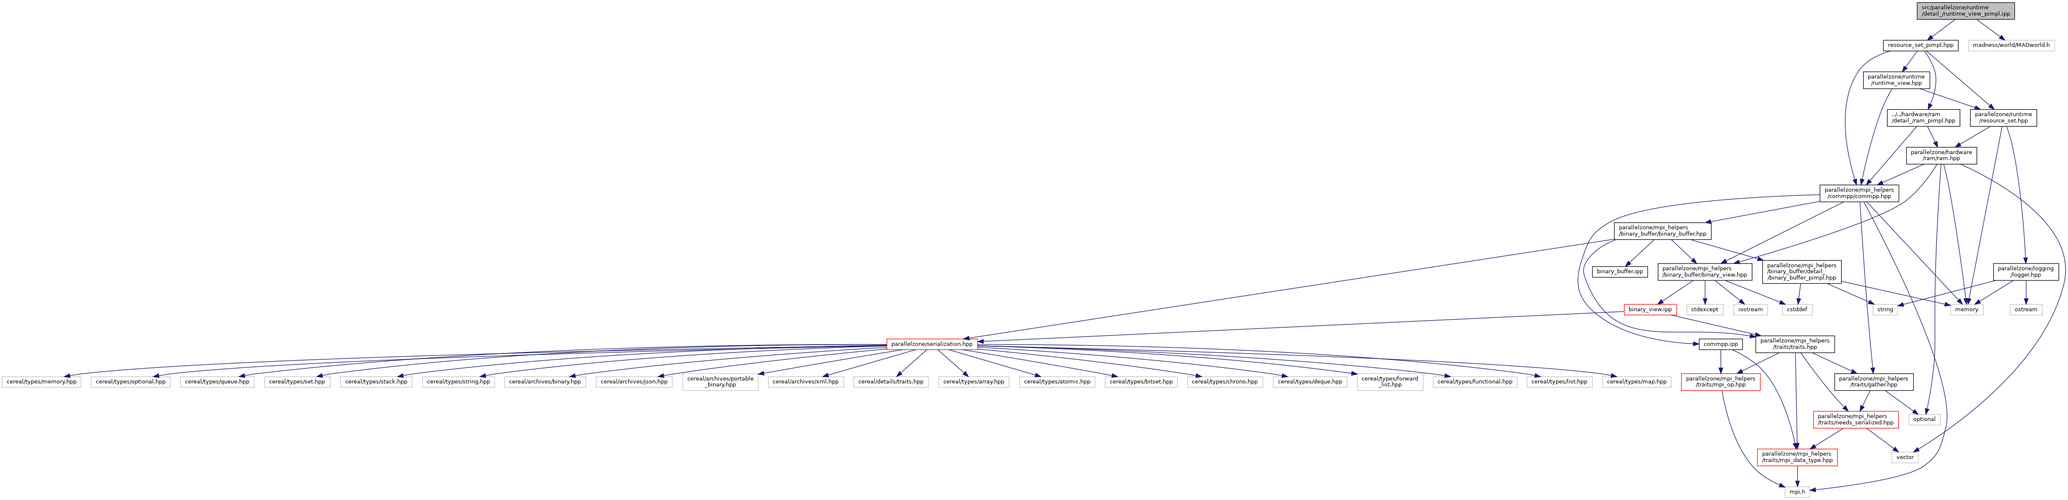
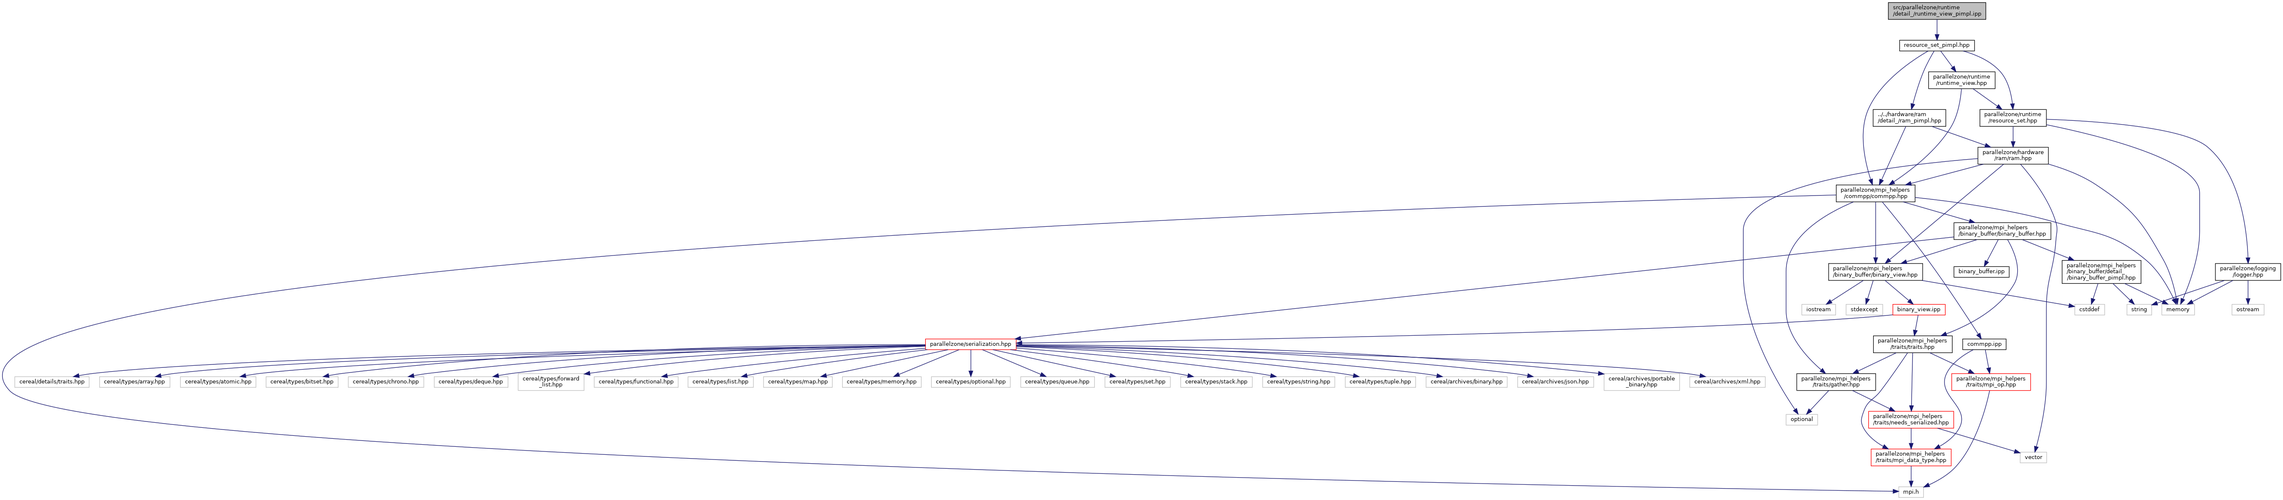
deploy: f9c04cf4defc1af3403317af634ea81ba5e0e5b0

diff --git a/parallelzone_cxx_api/runtime__view_8hpp_source.html b/parallelzone_cxx_api/runtime__view_8hpp_source.html
@@ -235,34 +235,34 @@ $(function() {
 <div class="ttc" id="aclassparallelzone_1_1runtime_1_1ResourceSet_html_a8678b1858f119f4d635742dd706e4b86"><div class="ttname"><a href="classparallelzone_1_1runtime_1_1ResourceSet.html#a8678b1858f119f4d635742dd706e4b86">parallelzone::runtime::ResourceSet::const_ram_reference</a></div><div class="ttdeci">const ram_type &amp; const_ram_reference</div><div class="ttdoc">Type of a read-only reference to the RAM.</div><div class="ttdef"><b>Definition:</b> resource_set.hpp:64</div></div>
 <div class="ttc" id="aclassparallelzone_1_1runtime_1_1ResourceSet_html_a8c2fc0065fd049ca6ed3fb86ba55ba99"><div class="ttname"><a href="classparallelzone_1_1runtime_1_1ResourceSet.html#a8c2fc0065fd049ca6ed3fb86ba55ba99">parallelzone::runtime::ResourceSet::ram_type</a></div><div class="ttdeci">hardware::RAM ram_type</div><div class="ttdoc">Type of the object representing RAM.</div><div class="ttdef"><b>Definition:</b> resource_set.hpp:61</div></div>
 <div class="ttc" id="aclassparallelzone_1_1runtime_1_1RuntimeView_html"><div class="ttname"><a href="classparallelzone_1_1runtime_1_1RuntimeView.html">parallelzone::runtime::RuntimeView</a></div><div class="ttdoc">A view of the execution environment.</div><div class="ttdef"><b>Definition:</b> runtime_view.hpp:52</div></div>
-<div class="ttc" id="aclassparallelzone_1_1runtime_1_1RuntimeView_html_a00e3a5845d983dd15b6acc2337447bdc"><div class="ttname"><a href="classparallelzone_1_1runtime_1_1RuntimeView.html#a00e3a5845d983dd15b6acc2337447bdc">parallelzone::runtime::RuntimeView::operator==</a></div><div class="ttdeci">bool operator==(const RuntimeView &amp;rhs) const</div><div class="ttdoc">Determines if rhs is value equal to *this.</div><div class="ttdef"><b>Definition:</b> runtime_view.cpp:130</div></div>
+<div class="ttc" id="aclassparallelzone_1_1runtime_1_1RuntimeView_html_a00e3a5845d983dd15b6acc2337447bdc"><div class="ttname"><a href="classparallelzone_1_1runtime_1_1RuntimeView.html#a00e3a5845d983dd15b6acc2337447bdc">parallelzone::runtime::RuntimeView::operator==</a></div><div class="ttdeci">bool operator==(const RuntimeView &amp;rhs) const</div><div class="ttdoc">Determines if rhs is value equal to *this.</div><div class="ttdef"><b>Definition:</b> runtime_view.cpp:127</div></div>
 <div class="ttc" id="aclassparallelzone_1_1runtime_1_1RuntimeView_html_a122358c232b4a806532fc865700dc79c"><div class="ttname"><a href="classparallelzone_1_1runtime_1_1RuntimeView.html#a122358c232b4a806532fc865700dc79c">parallelzone::runtime::RuntimeView::const_iterator</a></div><div class="ttdeci">int const_iterator</div><div class="ttdoc">Type of an interator over a range of resource_set_type instances.</div><div class="ttdef"><b>Definition:</b> runtime_view.hpp:83</div></div>
 <div class="ttc" id="aclassparallelzone_1_1runtime_1_1RuntimeView_html_a1c67b36432515884f4629431aa5248a4"><div class="ttname"><a href="classparallelzone_1_1runtime_1_1RuntimeView.html#a1c67b36432515884f4629431aa5248a4">parallelzone::runtime::RuntimeView::gather</a></div><div class="ttdeci">auto gather(T &amp;&amp;input) const</div><div class="ttdoc">Performs an all gather on the provided data.</div><div class="ttdef"><b>Definition:</b> runtime_view.hpp:422</div></div>
-<div class="ttc" id="aclassparallelzone_1_1runtime_1_1RuntimeView_html_a22c66ab5ce0bfef7a80ad4c37ea1017f"><div class="ttname"><a href="classparallelzone_1_1runtime_1_1RuntimeView.html#a22c66ab5ce0bfef7a80ad4c37ea1017f">parallelzone::runtime::RuntimeView::logger</a></div><div class="ttdeci">logger_reference logger() const</div><div class="ttdoc">Returns the program-wide logger.</div><div class="ttdef"><b>Definition:</b> runtime_view.cpp:118</div></div>
-<div class="ttc" id="aclassparallelzone_1_1runtime_1_1RuntimeView_html_a22e9b62ef7918c0d35d651fa0edf2e2a"><div class="ttname"><a href="classparallelzone_1_1runtime_1_1RuntimeView.html#a22e9b62ef7918c0d35d651fa0edf2e2a">parallelzone::runtime::RuntimeView::my_resource_set</a></div><div class="ttdeci">const_resource_set_reference my_resource_set() const</div><div class="ttdoc">Finds the resource set for the current process.</div><div class="ttdef"><b>Definition:</b> runtime_view.cpp:106</div></div>
+<div class="ttc" id="aclassparallelzone_1_1runtime_1_1RuntimeView_html_a22c66ab5ce0bfef7a80ad4c37ea1017f"><div class="ttname"><a href="classparallelzone_1_1runtime_1_1RuntimeView.html#a22c66ab5ce0bfef7a80ad4c37ea1017f">parallelzone::runtime::RuntimeView::logger</a></div><div class="ttdeci">logger_reference logger() const</div><div class="ttdoc">Returns the program-wide logger.</div><div class="ttdef"><b>Definition:</b> runtime_view.cpp:115</div></div>
+<div class="ttc" id="aclassparallelzone_1_1runtime_1_1RuntimeView_html_a22e9b62ef7918c0d35d651fa0edf2e2a"><div class="ttname"><a href="classparallelzone_1_1runtime_1_1RuntimeView.html#a22e9b62ef7918c0d35d651fa0edf2e2a">parallelzone::runtime::RuntimeView::my_resource_set</a></div><div class="ttdeci">const_resource_set_reference my_resource_set() const</div><div class="ttdoc">Finds the resource set for the current process.</div><div class="ttdef"><b>Definition:</b> runtime_view.cpp:103</div></div>
 <div class="ttc" id="aclassparallelzone_1_1runtime_1_1RuntimeView_html_a2f6116eb45714fe8da8134abcb606f82"><div class="ttname"><a href="classparallelzone_1_1runtime_1_1RuntimeView.html#a2f6116eb45714fe8da8134abcb606f82">parallelzone::runtime::RuntimeView::size_type</a></div><div class="ttdeci">std::size_t size_type</div><div class="ttdoc">Unsigned integral type used for counting, offsets, and indexing.</div><div class="ttdef"><b>Definition:</b> runtime_view.hpp:55</div></div>
 <div class="ttc" id="aclassparallelzone_1_1runtime_1_1RuntimeView_html_a3cb144e71e9449945ef587c2f5321663"><div class="ttname"><a href="classparallelzone_1_1runtime_1_1RuntimeView.html#a3cb144e71e9449945ef587c2f5321663">parallelzone::runtime::RuntimeView::gatherv</a></div><div class="ttdeci">auto gatherv(T &amp;&amp;input) const</div><div class="ttdoc">Performs an all gatherv on the provided data.</div><div class="ttdef"><b>Definition:</b> runtime_view.hpp:443</div></div>
 <div class="ttc" id="aclassparallelzone_1_1runtime_1_1RuntimeView_html_a3d1337ee4122818c8043777840da2b13"><div class="ttname"><a href="classparallelzone_1_1runtime_1_1RuntimeView.html#a3d1337ee4122818c8043777840da2b13">parallelzone::runtime::RuntimeView::const_range</a></div><div class="ttdeci">std::pair&lt; const_iterator, const_iterator &gt; const_range</div><div class="ttdoc">Pair of iterators to a read-only range of resource_set_type.</div><div class="ttdef"><b>Definition:</b> runtime_view.hpp:86</div></div>
 <div class="ttc" id="aclassparallelzone_1_1runtime_1_1RuntimeView_html_a465e869cbe8eebaf084c6df8636c9889"><div class="ttname"><a href="classparallelzone_1_1runtime_1_1RuntimeView.html#a465e869cbe8eebaf084c6df8636c9889">parallelzone::runtime::RuntimeView::argc_type</a></div><div class="ttdeci">int argc_type</div><div class="ttdoc">Type used to pass the program's argument count (i.e., &quot;argc&quot;)</div><div class="ttdef"><b>Definition:</b> runtime_view.hpp:61</div></div>
 <div class="ttc" id="aclassparallelzone_1_1runtime_1_1RuntimeView_html_a4d655291c38619f63c1c4e37ff3386ab"><div class="ttname"><a href="classparallelzone_1_1runtime_1_1RuntimeView.html#a4d655291c38619f63c1c4e37ff3386ab">parallelzone::runtime::RuntimeView::operator=</a></div><div class="ttdeci">RuntimeView &amp; operator=(RuntimeView &amp;&amp;rhs) noexcept</div><div class="ttdoc">Overwrites the state in *this with the state in rhs.</div></div>
 <div class="ttc" id="aclassparallelzone_1_1runtime_1_1RuntimeView_html_a5a27a5b66cbc399fce7b23fa67d8201e"><div class="ttname"><a href="classparallelzone_1_1runtime_1_1RuntimeView.html#a5a27a5b66cbc399fce7b23fa67d8201e">parallelzone::runtime::RuntimeView::RuntimeView</a></div><div class="ttdeci">RuntimeView(RuntimeView &amp;&amp;other) noexcept</div><div class="ttdoc">Transfers ownership of state in other to *this.</div></div>
-<div class="ttc" id="aclassparallelzone_1_1runtime_1_1RuntimeView_html_a644d2d0db4e49577d34ac3478f3a8a4a"><div class="ttname"><a href="classparallelzone_1_1runtime_1_1RuntimeView.html#a644d2d0db4e49577d34ac3478f3a8a4a">parallelzone::runtime::RuntimeView::size</a></div><div class="ttdeci">size_type size() const noexcept</div><div class="ttdoc">The number of resource sets in this instance.</div><div class="ttdef"><b>Definition:</b> runtime_view.cpp:86</div></div>
-<div class="ttc" id="aclassparallelzone_1_1runtime_1_1RuntimeView_html_a68de2e5f59cae07a9e7720586f9e87fc"><div class="ttname"><a href="classparallelzone_1_1runtime_1_1RuntimeView.html#a68de2e5f59cae07a9e7720586f9e87fc">parallelzone::runtime::RuntimeView::mpi_comm</a></div><div class="ttdeci">mpi_comm_type mpi_comm() const noexcept</div><div class="ttdoc">Returns the MPI communicator powering *this.</div><div class="ttdef"><b>Definition:</b> runtime_view.cpp:81</div></div>
+<div class="ttc" id="aclassparallelzone_1_1runtime_1_1RuntimeView_html_a644d2d0db4e49577d34ac3478f3a8a4a"><div class="ttname"><a href="classparallelzone_1_1runtime_1_1RuntimeView.html#a644d2d0db4e49577d34ac3478f3a8a4a">parallelzone::runtime::RuntimeView::size</a></div><div class="ttdeci">size_type size() const noexcept</div><div class="ttdoc">The number of resource sets in this instance.</div><div class="ttdef"><b>Definition:</b> runtime_view.cpp:83</div></div>
+<div class="ttc" id="aclassparallelzone_1_1runtime_1_1RuntimeView_html_a68de2e5f59cae07a9e7720586f9e87fc"><div class="ttname"><a href="classparallelzone_1_1runtime_1_1RuntimeView.html#a68de2e5f59cae07a9e7720586f9e87fc">parallelzone::runtime::RuntimeView::mpi_comm</a></div><div class="ttdeci">mpi_comm_type mpi_comm() const noexcept</div><div class="ttdoc">Returns the MPI communicator powering *this.</div><div class="ttdef"><b>Definition:</b> runtime_view.cpp:78</div></div>
 <div class="ttc" id="aclassparallelzone_1_1runtime_1_1RuntimeView_html_a69d490c31d18c01821c69f5d60c6dd37"><div class="ttname"><a href="classparallelzone_1_1runtime_1_1RuntimeView.html#a69d490c31d18c01821c69f5d60c6dd37">parallelzone::runtime::RuntimeView::mpi_comm_type</a></div><div class="ttdeci">MPI_Comm mpi_comm_type</div><div class="ttdoc">Type Runtime uses for handles to MPI communicators.</div><div class="ttdef"><b>Definition:</b> runtime_view.hpp:58</div></div>
 <div class="ttc" id="aclassparallelzone_1_1runtime_1_1RuntimeView_html_a77b614e37303449ecc2315858db2aed4"><div class="ttname"><a href="classparallelzone_1_1runtime_1_1RuntimeView.html#a77b614e37303449ecc2315858db2aed4">parallelzone::runtime::RuntimeView::RuntimeView</a></div><div class="ttdeci">RuntimeView(const RuntimeView &amp;other) noexcept</div><div class="ttdoc">Make a new RuntimeView which aliases the same resources as *this.</div></div>
-<div class="ttc" id="aclassparallelzone_1_1runtime_1_1RuntimeView_html_a7d21c3d45f8812fb17bbd559d80190cb"><div class="ttname"><a href="classparallelzone_1_1runtime_1_1RuntimeView.html#a7d21c3d45f8812fb17bbd559d80190cb">parallelzone::runtime::RuntimeView::RuntimeView</a></div><div class="ttdeci">RuntimeView()</div><div class="ttdoc">Creates a RuntimeView which wraps MPI_COMM_WORLD.</div><div class="ttdef"><b>Definition:</b> runtime_view.cpp:54</div></div>
+<div class="ttc" id="aclassparallelzone_1_1runtime_1_1RuntimeView_html_a7d21c3d45f8812fb17bbd559d80190cb"><div class="ttname"><a href="classparallelzone_1_1runtime_1_1RuntimeView.html#a7d21c3d45f8812fb17bbd559d80190cb">parallelzone::runtime::RuntimeView::RuntimeView</a></div><div class="ttdeci">RuntimeView()</div><div class="ttdoc">Creates a RuntimeView which wraps MPI_COMM_WORLD.</div><div class="ttdef"><b>Definition:</b> runtime_view.cpp:51</div></div>
 <div class="ttc" id="aclassparallelzone_1_1runtime_1_1RuntimeView_html_a916bb22d3fb79b17881667ab839a4cf4"><div class="ttname"><a href="classparallelzone_1_1runtime_1_1RuntimeView.html#a916bb22d3fb79b17881667ab839a4cf4">parallelzone::runtime::RuntimeView::pimpl_type</a></div><div class="ttdeci">detail_::RuntimeViewPIMPL pimpl_type</div><div class="ttdoc">Type of the class managing the state of this class.</div><div class="ttdef"><b>Definition:</b> runtime_view.hpp:95</div></div>
 <div class="ttc" id="aclassparallelzone_1_1runtime_1_1RuntimeView_html_aa58421c3d05daabe728979250be6cd1b"><div class="ttname"><a href="classparallelzone_1_1runtime_1_1RuntimeView.html#aa58421c3d05daabe728979250be6cd1b">parallelzone::runtime::RuntimeView::operator=</a></div><div class="ttdeci">RuntimeView &amp; operator=(const RuntimeView &amp;rhs) noexcept</div><div class="ttdoc">Makes *this alias the same resources as rhs.</div></div>
 <div class="ttc" id="aclassparallelzone_1_1runtime_1_1RuntimeView_html_aab1663be4841dae1432f2ed351a76eaf"><div class="ttname"><a href="classparallelzone_1_1runtime_1_1RuntimeView.html#aab1663be4841dae1432f2ed351a76eaf">parallelzone::runtime::RuntimeView::operator!=</a></div><div class="ttdeci">bool operator!=(const RuntimeView &amp;lhs, const RuntimeView &amp;rhs)</div><div class="ttdoc">Determines if two RuntimeView instances are different.</div><div class="ttdef"><b>Definition:</b> runtime_view.hpp:578</div></div>
 <div class="ttc" id="aclassparallelzone_1_1runtime_1_1RuntimeView_html_ab5fbf0b9041b77a7ccc74182933a4ee2"><div class="ttname"><a href="classparallelzone_1_1runtime_1_1RuntimeView.html#ab5fbf0b9041b77a7ccc74182933a4ee2">parallelzone::runtime::RuntimeView::pimpl_pointer</a></div><div class="ttdeci">std::shared_ptr&lt; pimpl_type &gt; pimpl_pointer</div><div class="ttdoc">Type of a pointer to the PIMPL.</div><div class="ttdef"><b>Definition:</b> runtime_view.hpp:98</div></div>
-<div class="ttc" id="aclassparallelzone_1_1runtime_1_1RuntimeView_html_acba26258319b6a20d081b78a94519de0"><div class="ttname"><a href="classparallelzone_1_1runtime_1_1RuntimeView.html#acba26258319b6a20d081b78a94519de0">parallelzone::runtime::RuntimeView::count</a></div><div class="ttdeci">size_type count(const_ram_reference ram) const</div><div class="ttdoc">Determines the number of ResourceSets a specific RAM instance belongs to.</div><div class="ttdef"><b>Definition:</b> runtime_view.cpp:110</div></div>
-<div class="ttc" id="aclassparallelzone_1_1runtime_1_1RuntimeView_html_acd2c5feb354c9bdc7d85da2a9e9a4da5"><div class="ttname"><a href="classparallelzone_1_1runtime_1_1RuntimeView.html#acd2c5feb354c9bdc7d85da2a9e9a4da5">parallelzone::runtime::RuntimeView::at</a></div><div class="ttdeci">const_resource_set_reference at(size_type i) const</div><div class="ttdoc">Returns the i-th resource set in a read-only state.</div><div class="ttdef"><b>Definition:</b> runtime_view.cpp:96</div></div>
-<div class="ttc" id="aclassparallelzone_1_1runtime_1_1RuntimeView_html_ad0dbb7d6fcd1f62b174b7b4887e61ba0"><div class="ttname"><a href="classparallelzone_1_1runtime_1_1RuntimeView.html#ad0dbb7d6fcd1f62b174b7b4887e61ba0">parallelzone::runtime::RuntimeView::did_i_start_mpi</a></div><div class="ttdeci">bool did_i_start_mpi() const noexcept</div><div class="ttdoc">Used to determine if this RuntimeView aliases the resources that started mpi.</div><div class="ttdef"><b>Definition:</b> runtime_view.cpp:92</div></div>
-<div class="ttc" id="aclassparallelzone_1_1runtime_1_1RuntimeView_html_ad2ae0efa7c29e79063971e70d4887dd5"><div class="ttname"><a href="classparallelzone_1_1runtime_1_1RuntimeView.html#ad2ae0efa7c29e79063971e70d4887dd5">parallelzone::runtime::RuntimeView::has_me</a></div><div class="ttdeci">bool has_me() const noexcept</div><div class="ttdoc">Used to determine if the current process is part of *this.</div><div class="ttdef"><b>Definition:</b> runtime_view.cpp:101</div></div>
-<div class="ttc" id="aclassparallelzone_1_1runtime_1_1RuntimeView_html_ada0761c70ccce9de074428ba38990581"><div class="ttname"><a href="classparallelzone_1_1runtime_1_1RuntimeView.html#ada0761c70ccce9de074428ba38990581">parallelzone::runtime::RuntimeView::null</a></div><div class="ttdeci">bool null() const noexcept</div><div class="ttdoc">Determines if *this is a view of the null runtime.</div><div class="ttdef"><b>Definition:</b> runtime_view.cpp:90</div></div>
+<div class="ttc" id="aclassparallelzone_1_1runtime_1_1RuntimeView_html_acba26258319b6a20d081b78a94519de0"><div class="ttname"><a href="classparallelzone_1_1runtime_1_1RuntimeView.html#acba26258319b6a20d081b78a94519de0">parallelzone::runtime::RuntimeView::count</a></div><div class="ttdeci">size_type count(const_ram_reference ram) const</div><div class="ttdoc">Determines the number of ResourceSets a specific RAM instance belongs to.</div><div class="ttdef"><b>Definition:</b> runtime_view.cpp:107</div></div>
+<div class="ttc" id="aclassparallelzone_1_1runtime_1_1RuntimeView_html_acd2c5feb354c9bdc7d85da2a9e9a4da5"><div class="ttname"><a href="classparallelzone_1_1runtime_1_1RuntimeView.html#acd2c5feb354c9bdc7d85da2a9e9a4da5">parallelzone::runtime::RuntimeView::at</a></div><div class="ttdeci">const_resource_set_reference at(size_type i) const</div><div class="ttdoc">Returns the i-th resource set in a read-only state.</div><div class="ttdef"><b>Definition:</b> runtime_view.cpp:93</div></div>
+<div class="ttc" id="aclassparallelzone_1_1runtime_1_1RuntimeView_html_ad0dbb7d6fcd1f62b174b7b4887e61ba0"><div class="ttname"><a href="classparallelzone_1_1runtime_1_1RuntimeView.html#ad0dbb7d6fcd1f62b174b7b4887e61ba0">parallelzone::runtime::RuntimeView::did_i_start_mpi</a></div><div class="ttdeci">bool did_i_start_mpi() const noexcept</div><div class="ttdoc">Used to determine if this RuntimeView aliases the resources that started mpi.</div><div class="ttdef"><b>Definition:</b> runtime_view.cpp:89</div></div>
+<div class="ttc" id="aclassparallelzone_1_1runtime_1_1RuntimeView_html_ad2ae0efa7c29e79063971e70d4887dd5"><div class="ttname"><a href="classparallelzone_1_1runtime_1_1RuntimeView.html#ad2ae0efa7c29e79063971e70d4887dd5">parallelzone::runtime::RuntimeView::has_me</a></div><div class="ttdeci">bool has_me() const noexcept</div><div class="ttdoc">Used to determine if the current process is part of *this.</div><div class="ttdef"><b>Definition:</b> runtime_view.cpp:98</div></div>
+<div class="ttc" id="aclassparallelzone_1_1runtime_1_1RuntimeView_html_ada0761c70ccce9de074428ba38990581"><div class="ttname"><a href="classparallelzone_1_1runtime_1_1RuntimeView.html#ada0761c70ccce9de074428ba38990581">parallelzone::runtime::RuntimeView::null</a></div><div class="ttdeci">bool null() const noexcept</div><div class="ttdoc">Determines if *this is a view of the null runtime.</div><div class="ttdef"><b>Definition:</b> runtime_view.cpp:87</div></div>
 <div class="ttc" id="aclassparallelzone_1_1runtime_1_1RuntimeView_html_ae71b3e1b15b6e608c46f4527ec80609a"><div class="ttname"><a href="classparallelzone_1_1runtime_1_1RuntimeView.html#ae71b3e1b15b6e608c46f4527ec80609a">parallelzone::runtime::RuntimeView::reduce</a></div><div class="ttdeci">auto reduce(T &amp;&amp;input, Fxn &amp;&amp;op) const</div><div class="ttdoc">Performs an all reduce on the data.</div><div class="ttdef"><b>Definition:</b> runtime_view.hpp:485</div></div>
 <div class="ttc" id="aclassparallelzone_1_1runtime_1_1RuntimeView_html_ae81e08e79e4a531ae42c46525984a324"><div class="ttname"><a href="classparallelzone_1_1runtime_1_1RuntimeView.html#ae81e08e79e4a531ae42c46525984a324">parallelzone::runtime::RuntimeView::~RuntimeView</a></div><div class="ttdeci">~RuntimeView() noexcept</div><div class="ttdoc">Releases the present RuntimeView instance.</div></div>
-<div class="ttc" id="aclassparallelzone_1_1runtime_1_1RuntimeView_html_aedae9c287e0ee7ef7afbcf8b4e8f0dfc"><div class="ttname"><a href="classparallelzone_1_1runtime_1_1RuntimeView.html#aedae9c287e0ee7ef7afbcf8b4e8f0dfc">parallelzone::runtime::RuntimeView::swap</a></div><div class="ttdeci">void swap(RuntimeView &amp;other) noexcept</div><div class="ttdoc">Swaps the state of *this with other.</div><div class="ttdef"><b>Definition:</b> runtime_view.cpp:126</div></div>
+<div class="ttc" id="aclassparallelzone_1_1runtime_1_1RuntimeView_html_aedae9c287e0ee7ef7afbcf8b4e8f0dfc"><div class="ttname"><a href="classparallelzone_1_1runtime_1_1RuntimeView.html#aedae9c287e0ee7ef7afbcf8b4e8f0dfc">parallelzone::runtime::RuntimeView::swap</a></div><div class="ttdeci">void swap(RuntimeView &amp;other) noexcept</div><div class="ttdoc">Swaps the state of *this with other.</div><div class="ttdef"><b>Definition:</b> runtime_view.cpp:123</div></div>
 <div class="ttc" id="aclassparallelzone_1_1runtime_1_1RuntimeView_html_af941c5b949749cf3d5e283c94c56d092"><div class="ttname"><a href="classparallelzone_1_1runtime_1_1RuntimeView.html#af941c5b949749cf3d5e283c94c56d092">parallelzone::runtime::RuntimeView::argv_type</a></div><div class="ttdeci">char ** argv_type</div><div class="ttdoc">Type used to pass the program's arguments (i.e., &quot;argv&quot;)</div><div class="ttdef"><b>Definition:</b> runtime_view.hpp:64</div></div>
 <div class="ttc" id="astructparallelzone_1_1runtime_1_1detail___1_1RuntimeViewPIMPL_html"><div class="ttname"><a href="structparallelzone_1_1runtime_1_1detail___1_1RuntimeViewPIMPL.html">parallelzone::runtime::detail_::RuntimeViewPIMPL</a></div><div class="ttdoc">Holds the state for the RuntimeView class.</div><div class="ttdef"><b>Definition:</b> runtime_view_pimpl.hpp:27</div></div>
 </div><!-- fragment --></div><!-- contents -->

diff --git a/parallelzone_cxx_api/runtime__view__pimpl_8ipp.html b/parallelzone_cxx_api/runtime__view__pimpl_8ipp.html
@@ -71,62 +71,61 @@ $(function() {
 </div><!--header-->
 <div class="contents">
 <div class="textblock"><code>#include &quot;resource_set_pimpl.hpp&quot;</code><br />
-<code>#include &lt;madness/world/MADworld.h&gt;</code><br />
 </div><div class="textblock"><div class="dynheader">
 Include dependency graph for runtime_view_pimpl.ipp:</div>
 <div class="dyncontent">
 <div class="center"><img src="runtime__view__pimpl_8ipp__incl.png" border="0" usemap="#asrc_2parallelzone_2runtime_2detail___2runtime__view__pimpl_8ipp" alt=""/></div>
 <map name="asrc_2parallelzone_2runtime_2detail___2runtime__view__pimpl_8ipp" id="asrc_2parallelzone_2runtime_2detail___2runtime__view__pimpl_8ipp">
-<area shape="rect" title=" " alt="" coords="4538,5,4769,47"/>
-<area shape="rect" href="resource__set__pimpl_8hpp_source.html" title=" " alt="" coords="4458,95,4635,121"/>
-<area shape="rect" title=" " alt="" coords="4659,95,4863,121"/>
-<area shape="rect" href="ram__pimpl_8hpp_source.html" title=" " alt="" coords="4467,259,4639,300"/>
-<area shape="rect" href="commpp_8hpp_source.html" title=" " alt="" coords="4308,437,4495,479"/>
-<area shape="rect" href="resource__set_8hpp_source.html" title=" " alt="" coords="4664,259,4821,300"/>
-<area shape="rect" href="runtime__view_8hpp_source.html" title=" " alt="" coords="4411,169,4568,211"/>
-<area shape="rect" href="ram_8hpp_source.html" title=" " alt="" coords="4513,348,4679,389"/>
-<area shape="rect" title=" " alt="" coords="4617,720,4695,747"/>
-<area shape="rect" title=" " alt="" coords="4519,981,4593,1007"/>
-<area shape="rect" href="binary__view_8hpp_source.html" title=" " alt="" coords="3925,623,4147,665"/>
-<area shape="rect" title=" " alt="" coords="4478,1070,4541,1097"/>
-<area shape="rect" title=" " alt="" coords="4219,720,4290,747"/>
-<area shape="rect" title=" " alt="" coords="4104,720,4184,747"/>
-<area shape="rect" title=" " alt="" coords="3993,720,4079,747"/>
-<area shape="rect" href="binary__view_8ipp.html" title=" " alt="" coords="3845,720,3969,747"/>
-<area shape="rect" href="traits_8hpp_source.html" title=" " alt="" coords="4156,795,4343,836"/>
-<area shape="rect" href="serialization_8hpp_source.html" title=" " alt="" coords="2099,802,2314,829"/>
-<area shape="rect" href="gather_8hpp_source.html" title=" " alt="" coords="4343,884,4529,925"/>
-<area shape="rect" href="needs__serialized_8hpp_source.html" title=" " alt="" coords="4293,973,4494,1015"/>
-<area shape="rect" href="mpi__data__type_8hpp_source.html" title=" " alt="" coords="4160,1063,4349,1104"/>
-<area shape="rect" href="mpi__op_8hpp_source.html" title=" " alt="" coords="3980,884,4167,925"/>
-<area shape="rect" title=" " alt="" coords="4225,1152,4284,1179"/>
-<area shape="rect" title=" " alt="" coords="1195,891,1387,918"/>
-<area shape="rect" title=" " alt="" coords="1411,891,1591,918"/>
-<area shape="rect" title=" " alt="" coords="1616,884,1795,925"/>
-<area shape="rect" title=" " alt="" coords="1819,891,1997,918"/>
-<area shape="rect" title=" " alt="" coords="2021,891,2197,918"/>
-<area shape="rect" title=" " alt="" coords="2222,891,2389,918"/>
-<area shape="rect" title=" " alt="" coords="2413,891,2592,918"/>
-<area shape="rect" title=" " alt="" coords="2616,891,2787,918"/>
-<area shape="rect" title=" " alt="" coords="2811,891,2989,918"/>
-<area shape="rect" title=" " alt="" coords="3014,891,3189,918"/>
-<area shape="rect" title=" " alt="" coords="3213,884,3369,925"/>
-<area shape="rect" title=" " alt="" coords="3393,891,3591,918"/>
-<area shape="rect" title=" " alt="" coords="3615,891,3769,918"/>
-<area shape="rect" title=" " alt="" coords="3793,891,3956,918"/>
-<area shape="rect" title=" " alt="" coords="5,891,192,918"/>
-<area shape="rect" title=" " alt="" coords="216,891,403,918"/>
-<area shape="rect" title=" " alt="" coords="427,891,602,918"/>
-<area shape="rect" title=" " alt="" coords="627,891,781,918"/>
-<area shape="rect" title=" " alt="" coords="806,891,975,918"/>
-<area shape="rect" title=" " alt="" coords="1000,891,1171,918"/>
-<area shape="rect" href="binary__buffer_8hpp_source.html" title=" " alt="" coords="3821,527,4051,568"/>
-<area shape="rect" href="commpp_8ipp.html" title=" " alt="" coords="4022,802,4125,829"/>
-<area shape="rect" href="binary__buffer__pimpl_8hpp_source.html" title=" " alt="" coords="4172,616,4359,672"/>
-<area shape="rect" href="binary__buffer_8ipp.html" title=" " alt="" coords="3769,631,3900,657"/>
-<area shape="rect" title=" " alt="" coords="4433,720,4492,747"/>
-<area shape="rect" href="logger_8hpp_source.html" title=" " alt="" coords="4719,623,4873,665"/>
-<area shape="rect" title=" " alt="" coords="4758,720,4834,747"/>
+<area shape="rect" title=" " alt="" coords="4469,5,4700,47"/>
+<area shape="rect" href="resource__set__pimpl_8hpp_source.html" title=" " alt="" coords="4496,95,4673,121"/>
+<area shape="rect" href="ram__pimpl_8hpp_source.html" title=" " alt="" coords="4433,259,4605,300"/>
+<area shape="rect" href="commpp_8hpp_source.html" title=" " alt="" coords="4346,437,4532,479"/>
+<area shape="rect" href="resource__set_8hpp_source.html" title=" " alt="" coords="4686,259,4843,300"/>
+<area shape="rect" href="runtime__view_8hpp_source.html" title=" " alt="" coords="4564,169,4722,211"/>
+<area shape="rect" href="ram_8hpp_source.html" title=" " alt="" coords="4681,348,4848,389"/>
+<area shape="rect" title=" " alt="" coords="5116,720,5194,747"/>
+<area shape="rect" title=" " alt="" coords="4227,981,4302,1007"/>
+<area shape="rect" href="binary__view_8hpp_source.html" title=" " alt="" coords="4328,623,4550,665"/>
+<area shape="rect" title=" " alt="" coords="4781,1070,4844,1097"/>
+<area shape="rect" title=" " alt="" coords="4910,720,4981,747"/>
+<area shape="rect" title=" " alt="" coords="4264,720,4344,747"/>
+<area shape="rect" title=" " alt="" coords="4369,720,4456,747"/>
+<area shape="rect" href="binary__view_8ipp.html" title=" " alt="" coords="4480,720,4604,747"/>
+<area shape="rect" href="traits_8hpp_source.html" title=" " alt="" coords="4434,795,4620,836"/>
+<area shape="rect" href="serialization_8hpp_source.html" title=" " alt="" coords="2190,802,2405,829"/>
+<area shape="rect" href="gather_8hpp_source.html" title=" " alt="" coords="4252,884,4439,925"/>
+<area shape="rect" href="needs__serialized_8hpp_source.html" title=" " alt="" coords="4422,973,4624,1015"/>
+<area shape="rect" href="mpi__data__type_8hpp_source.html" title=" " alt="" coords="4428,1063,4618,1104"/>
+<area shape="rect" href="mpi__op_8hpp_source.html" title=" " alt="" coords="4619,884,4806,925"/>
+<area shape="rect" title=" " alt="" coords="4494,1152,4552,1179"/>
+<area shape="rect" title=" " alt="" coords="3375,891,3567,918"/>
+<area shape="rect" title=" " alt="" coords="3592,891,3772,918"/>
+<area shape="rect" title=" " alt="" coords="3796,884,3975,925"/>
+<area shape="rect" title=" " alt="" coords="3999,891,4178,918"/>
+<area shape="rect" title=" " alt="" coords="35,891,211,918"/>
+<area shape="rect" title=" " alt="" coords="236,891,402,918"/>
+<area shape="rect" title=" " alt="" coords="427,891,606,918"/>
+<area shape="rect" title=" " alt="" coords="630,891,800,918"/>
+<area shape="rect" title=" " alt="" coords="824,891,1003,918"/>
+<area shape="rect" title=" " alt="" coords="1028,891,1202,918"/>
+<area shape="rect" title=" " alt="" coords="1226,884,1382,925"/>
+<area shape="rect" title=" " alt="" coords="1406,891,1605,918"/>
+<area shape="rect" title=" " alt="" coords="1628,891,1783,918"/>
+<area shape="rect" title=" " alt="" coords="1807,891,1970,918"/>
+<area shape="rect" title=" " alt="" coords="1994,891,2180,918"/>
+<area shape="rect" title=" " alt="" coords="2204,891,2391,918"/>
+<area shape="rect" title=" " alt="" coords="2416,891,2590,918"/>
+<area shape="rect" title=" " alt="" coords="2615,891,2770,918"/>
+<area shape="rect" title=" " alt="" coords="2794,891,2964,918"/>
+<area shape="rect" title=" " alt="" coords="2988,891,3159,918"/>
+<area shape="rect" title=" " alt="" coords="3184,891,3350,918"/>
+<area shape="rect" href="binary__buffer_8hpp_source.html" title=" " alt="" coords="4624,527,4854,568"/>
+<area shape="rect" href="commpp_8ipp.html" title=" " alt="" coords="4645,802,4748,829"/>
+<area shape="rect" href="binary__buffer__pimpl_8hpp_source.html" title=" " alt="" coords="4880,616,5067,672"/>
+<area shape="rect" href="binary__buffer_8ipp.html" title=" " alt="" coords="4624,631,4755,657"/>
+<area shape="rect" title=" " alt="" coords="5034,720,5092,747"/>
+<area shape="rect" href="logger_8hpp_source.html" title=" " alt="" coords="5243,623,5398,665"/>
+<area shape="rect" title=" " alt="" coords="5282,720,5358,747"/>
 </map>
 </div>
 </div><div class="textblock"><div class="dynheader">

diff --git a/parallelzone_cxx_api/runtime__view__pimpl_8hpp_source.html b/parallelzone_cxx_api/runtime__view__pimpl_8hpp_source.html
@@ -156,13 +156,13 @@ $(function() {
 <div class="ttc" id="astructparallelzone_1_1runtime_1_1detail___1_1RuntimeViewPIMPL_html_a3244b231038dbcd008d2cbed7936a208"><div class="ttname"><a href="structparallelzone_1_1runtime_1_1detail___1_1RuntimeViewPIMPL.html#a3244b231038dbcd008d2cbed7936a208">parallelzone::runtime::detail_::RuntimeViewPIMPL::m_did_i_start_mpi</a></div><div class="ttdeci">bool m_did_i_start_mpi</div><div class="ttdoc">Did this PIMPL start MPI?</div><div class="ttdef"><b>Definition:</b> runtime_view_pimpl.hpp:121</div></div>
 <div class="ttc" id="astructparallelzone_1_1runtime_1_1detail___1_1RuntimeViewPIMPL_html_a41a329a0c190c9c5c9c8016c53e5c013"><div class="ttname"><a href="structparallelzone_1_1runtime_1_1detail___1_1RuntimeViewPIMPL.html#a41a329a0c190c9c5c9c8016c53e5c013">parallelzone::runtime::detail_::RuntimeViewPIMPL::argv_type</a></div><div class="ttdeci">parent_type::argv_type argv_type</div><div class="ttdoc">Ultimately a typedef of RuntimeView::argv_type.</div><div class="ttdef"><b>Definition:</b> runtime_view_pimpl.hpp:63</div></div>
 <div class="ttc" id="astructparallelzone_1_1runtime_1_1detail___1_1RuntimeViewPIMPL_html_a46b88bd78b06948f2ac930a08f810e7e"><div class="ttname"><a href="structparallelzone_1_1runtime_1_1detail___1_1RuntimeViewPIMPL.html#a46b88bd78b06948f2ac930a08f810e7e">parallelzone::runtime::detail_::RuntimeViewPIMPL::m_plogger</a></div><div class="ttdeci">logger_pointer m_plogger</div><div class="ttdoc">Pointer to the logger (pointer to allow logging with const ResourceSets)</div><div class="ttdef"><b>Definition:</b> runtime_view_pimpl.hpp:127</div></div>
-<div class="ttc" id="astructparallelzone_1_1runtime_1_1detail___1_1RuntimeViewPIMPL_html_a6bafca19ade0696ad2d7862aa28815e8"><div class="ttname"><a href="structparallelzone_1_1runtime_1_1detail___1_1RuntimeViewPIMPL.html#a6bafca19ade0696ad2d7862aa28815e8">parallelzone::runtime::detail_::RuntimeViewPIMPL::at</a></div><div class="ttdeci">const_resource_set_reference at(size_type rank) const</div><div class="ttdoc">Wraps retrieving a ResourceSet.</div><div class="ttdef"><b>Definition:</b> runtime_view_pimpl.ipp:44</div></div>
+<div class="ttc" id="astructparallelzone_1_1runtime_1_1detail___1_1RuntimeViewPIMPL_html_a6bafca19ade0696ad2d7862aa28815e8"><div class="ttname"><a href="structparallelzone_1_1runtime_1_1detail___1_1RuntimeViewPIMPL.html#a6bafca19ade0696ad2d7862aa28815e8">parallelzone::runtime::detail_::RuntimeViewPIMPL::at</a></div><div class="ttdeci">const_resource_set_reference at(size_type rank) const</div><div class="ttdoc">Wraps retrieving a ResourceSet.</div><div class="ttdef"><b>Definition:</b> runtime_view_pimpl.ipp:43</div></div>
 <div class="ttc" id="astructparallelzone_1_1runtime_1_1detail___1_1RuntimeViewPIMPL_html_a833da5d9d162b6c4bcbd70cb438ce43e"><div class="ttname"><a href="structparallelzone_1_1runtime_1_1detail___1_1RuntimeViewPIMPL.html#a833da5d9d162b6c4bcbd70cb438ce43e">parallelzone::runtime::detail_::RuntimeViewPIMPL::argc_type</a></div><div class="ttdeci">parent_type::argc_type argc_type</div><div class="ttdoc">Ultimately a typedef of RuntimeView::argc_type.</div><div class="ttdef"><b>Definition:</b> runtime_view_pimpl.hpp:60</div></div>
 <div class="ttc" id="astructparallelzone_1_1runtime_1_1detail___1_1RuntimeViewPIMPL_html_abbdc3524d7edc45c36c80e9ee0e1357a"><div class="ttname"><a href="structparallelzone_1_1runtime_1_1detail___1_1RuntimeViewPIMPL.html#abbdc3524d7edc45c36c80e9ee0e1357a">parallelzone::runtime::detail_::RuntimeViewPIMPL::resource_set_container</a></div><div class="ttdeci">std::map&lt; size_type, resource_set_type &gt; resource_set_container</div><div class="ttdoc">Type of the conatiner holding resource_set_type objects.</div><div class="ttdef"><b>Definition:</b> runtime_view_pimpl.hpp:45</div></div>
 <div class="ttc" id="astructparallelzone_1_1runtime_1_1detail___1_1RuntimeViewPIMPL_html_ad44dd59f34299d08c62909ce5a4a78ce"><div class="ttname"><a href="structparallelzone_1_1runtime_1_1detail___1_1RuntimeViewPIMPL.html#ad44dd59f34299d08c62909ce5a4a78ce">parallelzone::runtime::detail_::RuntimeViewPIMPL::size_type</a></div><div class="ttdeci">parent_type::size_type size_type</div><div class="ttdoc">Ultimately a typedef of RuntimeView::size_type.</div><div class="ttdef"><b>Definition:</b> runtime_view_pimpl.hpp:32</div></div>
-<div class="ttc" id="astructparallelzone_1_1runtime_1_1detail___1_1RuntimeViewPIMPL_html_af0c3f5a0c6ce62ae1b99615bcc7ae720"><div class="ttname"><a href="structparallelzone_1_1runtime_1_1detail___1_1RuntimeViewPIMPL.html#af0c3f5a0c6ce62ae1b99615bcc7ae720">parallelzone::runtime::detail_::RuntimeViewPIMPL::RuntimeViewPIMPL</a></div><div class="ttdeci">RuntimeViewPIMPL(bool did_i_start_mpi, comm_type comm, logger_type logger)</div><div class="ttdoc">Initializes *this from the provided MPI communicator.</div><div class="ttdef"><b>Definition:</b> runtime_view_pimpl.ipp:29</div></div>
+<div class="ttc" id="astructparallelzone_1_1runtime_1_1detail___1_1RuntimeViewPIMPL_html_af0c3f5a0c6ce62ae1b99615bcc7ae720"><div class="ttname"><a href="structparallelzone_1_1runtime_1_1detail___1_1RuntimeViewPIMPL.html#af0c3f5a0c6ce62ae1b99615bcc7ae720">parallelzone::runtime::detail_::RuntimeViewPIMPL::RuntimeViewPIMPL</a></div><div class="ttdeci">RuntimeViewPIMPL(bool did_i_start_mpi, comm_type comm, logger_type logger)</div><div class="ttdoc">Initializes *this from the provided MPI communicator.</div><div class="ttdef"><b>Definition:</b> runtime_view_pimpl.ipp:28</div></div>
 <div class="ttc" id="astructparallelzone_1_1runtime_1_1detail___1_1RuntimeViewPIMPL_html_af179fba563e182abb82a57e615baab9a"><div class="ttname"><a href="structparallelzone_1_1runtime_1_1detail___1_1RuntimeViewPIMPL.html#af179fba563e182abb82a57e615baab9a">parallelzone::runtime::detail_::RuntimeViewPIMPL::m_comm</a></div><div class="ttdeci">comm_type m_comm</div><div class="ttdoc">The MPI communicator we're built around.</div><div class="ttdef"><b>Definition:</b> runtime_view_pimpl.hpp:124</div></div>
-<div class="ttc" id="astructparallelzone_1_1runtime_1_1detail___1_1RuntimeViewPIMPL_html_af4273a75e69f3f7a03104312d7a86328"><div class="ttname"><a href="structparallelzone_1_1runtime_1_1detail___1_1RuntimeViewPIMPL.html#af4273a75e69f3f7a03104312d7a86328">parallelzone::runtime::detail_::RuntimeViewPIMPL::~RuntimeViewPIMPL</a></div><div class="ttdeci">~RuntimeViewPIMPL() noexcept</div><div class="ttdoc">Destructor, when all references are gone (and if we started it)</div><div class="ttdef"><b>Definition:</b> runtime_view_pimpl.ipp:39</div></div>
+<div class="ttc" id="astructparallelzone_1_1runtime_1_1detail___1_1RuntimeViewPIMPL_html_af4273a75e69f3f7a03104312d7a86328"><div class="ttname"><a href="structparallelzone_1_1runtime_1_1detail___1_1RuntimeViewPIMPL.html#af4273a75e69f3f7a03104312d7a86328">parallelzone::runtime::detail_::RuntimeViewPIMPL::~RuntimeViewPIMPL</a></div><div class="ttdeci">~RuntimeViewPIMPL() noexcept</div><div class="ttdoc">Destructor, when all references are gone (and if we started it)</div><div class="ttdef"><b>Definition:</b> runtime_view_pimpl.ipp:38</div></div>
 <div class="ttc" id="astructparallelzone_1_1runtime_1_1detail___1_1RuntimeViewPIMPL_html_af96360f7d25084b72b2cd700dbc23331"><div class="ttname"><a href="structparallelzone_1_1runtime_1_1detail___1_1RuntimeViewPIMPL.html#af96360f7d25084b72b2cd700dbc23331">parallelzone::runtime::detail_::RuntimeViewPIMPL::logger_pointer</a></div><div class="ttdeci">std::shared_ptr&lt; logger_type &gt; logger_pointer</div><div class="ttdoc">Logger instance pointer.</div><div class="ttdef"><b>Definition:</b> runtime_view_pimpl.hpp:57</div></div>
 </div><!-- fragment --></div><!-- contents -->
 <!-- start footer part -->
